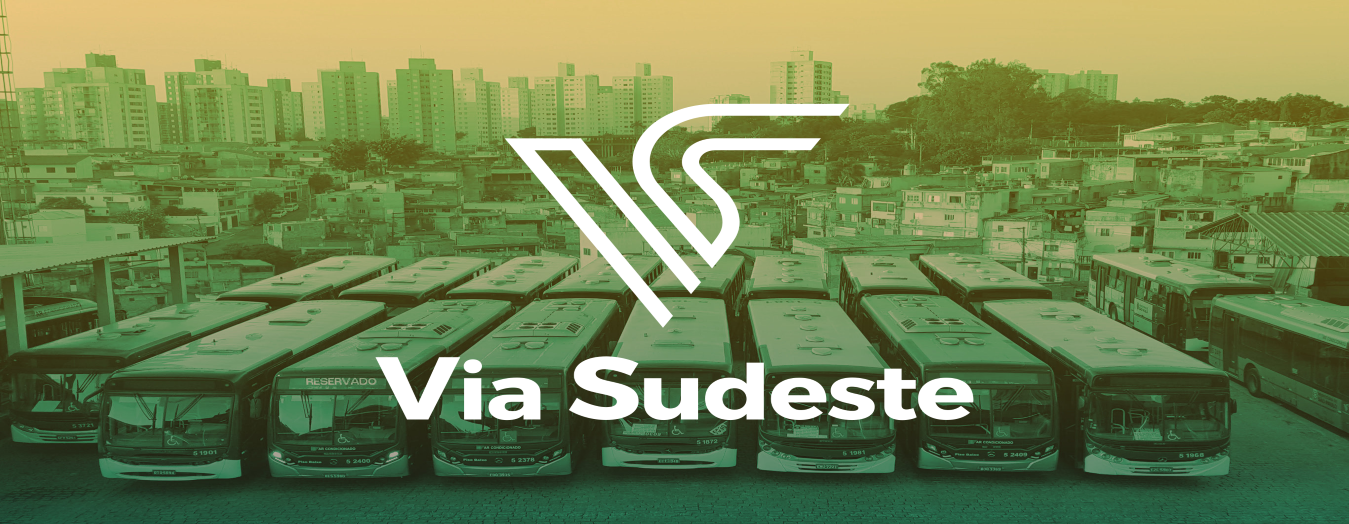
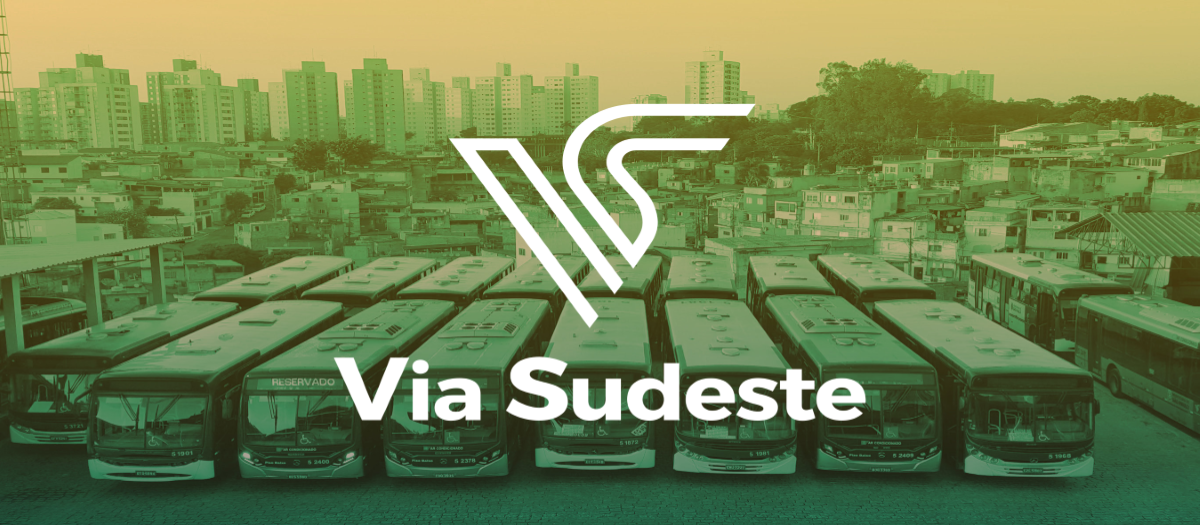
novo index

diff --git a/css/style.css b/css/style.css
@@ -2,7 +2,10 @@
     margin: 0;
     padding: 0;
 }
- 
+
+body{
+    background-color: #f4f4f4;
+}
 
 hr {
     border: none;
@@ -174,13 +177,33 @@ label[for="bt_menu"]{
     cursor: pointer;
 }
 
-/*Slider*/
+/*Slider
 
 .header2 {
     width: 100%;
     float: left;
     position: relative;
     cursor: pointer;
+}*/
+
+/*PARALEX*/
+.header2{
+    display: flex;
+    flex-direction: column;
+    justify-content: center;
+    height: 100vh !important;
+    width: 100%;
+    position: relative;
+    overflow: hidden;
+    background-position:center top;
+    background-repeat: no-repeat;
+    background-attachment: fixed;
+    background-size: cover;
+    -webkit-background-size: cover;
+    -moz-background-size: cover;
+    -o-background-size: cover;
+    background-image: url('../img/tela1.png');
+    background-color: #f4f4f4;
 }
 
 button.slick-prev {

diff --git a/index.html b/index.html
@@ -72,10 +72,10 @@
 <!--Slider-->
         <section class="header2">
             <nav class="slider-principal">
-                <img src="./img/tela.png">
+                
                 <!--
                 <img src="./img/slider1.jpeg" />
-                <img src="./img/slider2.jpeg" />
+                <img src="./img/slider2.jpeg" /> 
                 <img src="./img/slider3.jpeg" />
                 <img src="./img/slider4.jpeg" />-->
             </nav>

diff --git a/sobrenos.html b/sobrenos.html
@@ -83,7 +83,7 @@
                 <br/>
             </div>
         
-            <div>
+           <div>
                 <img src="./img/sobrenos2.jpg" alt="Via Sudeste" title="Via Sudeste">
             </div>
         </section>
